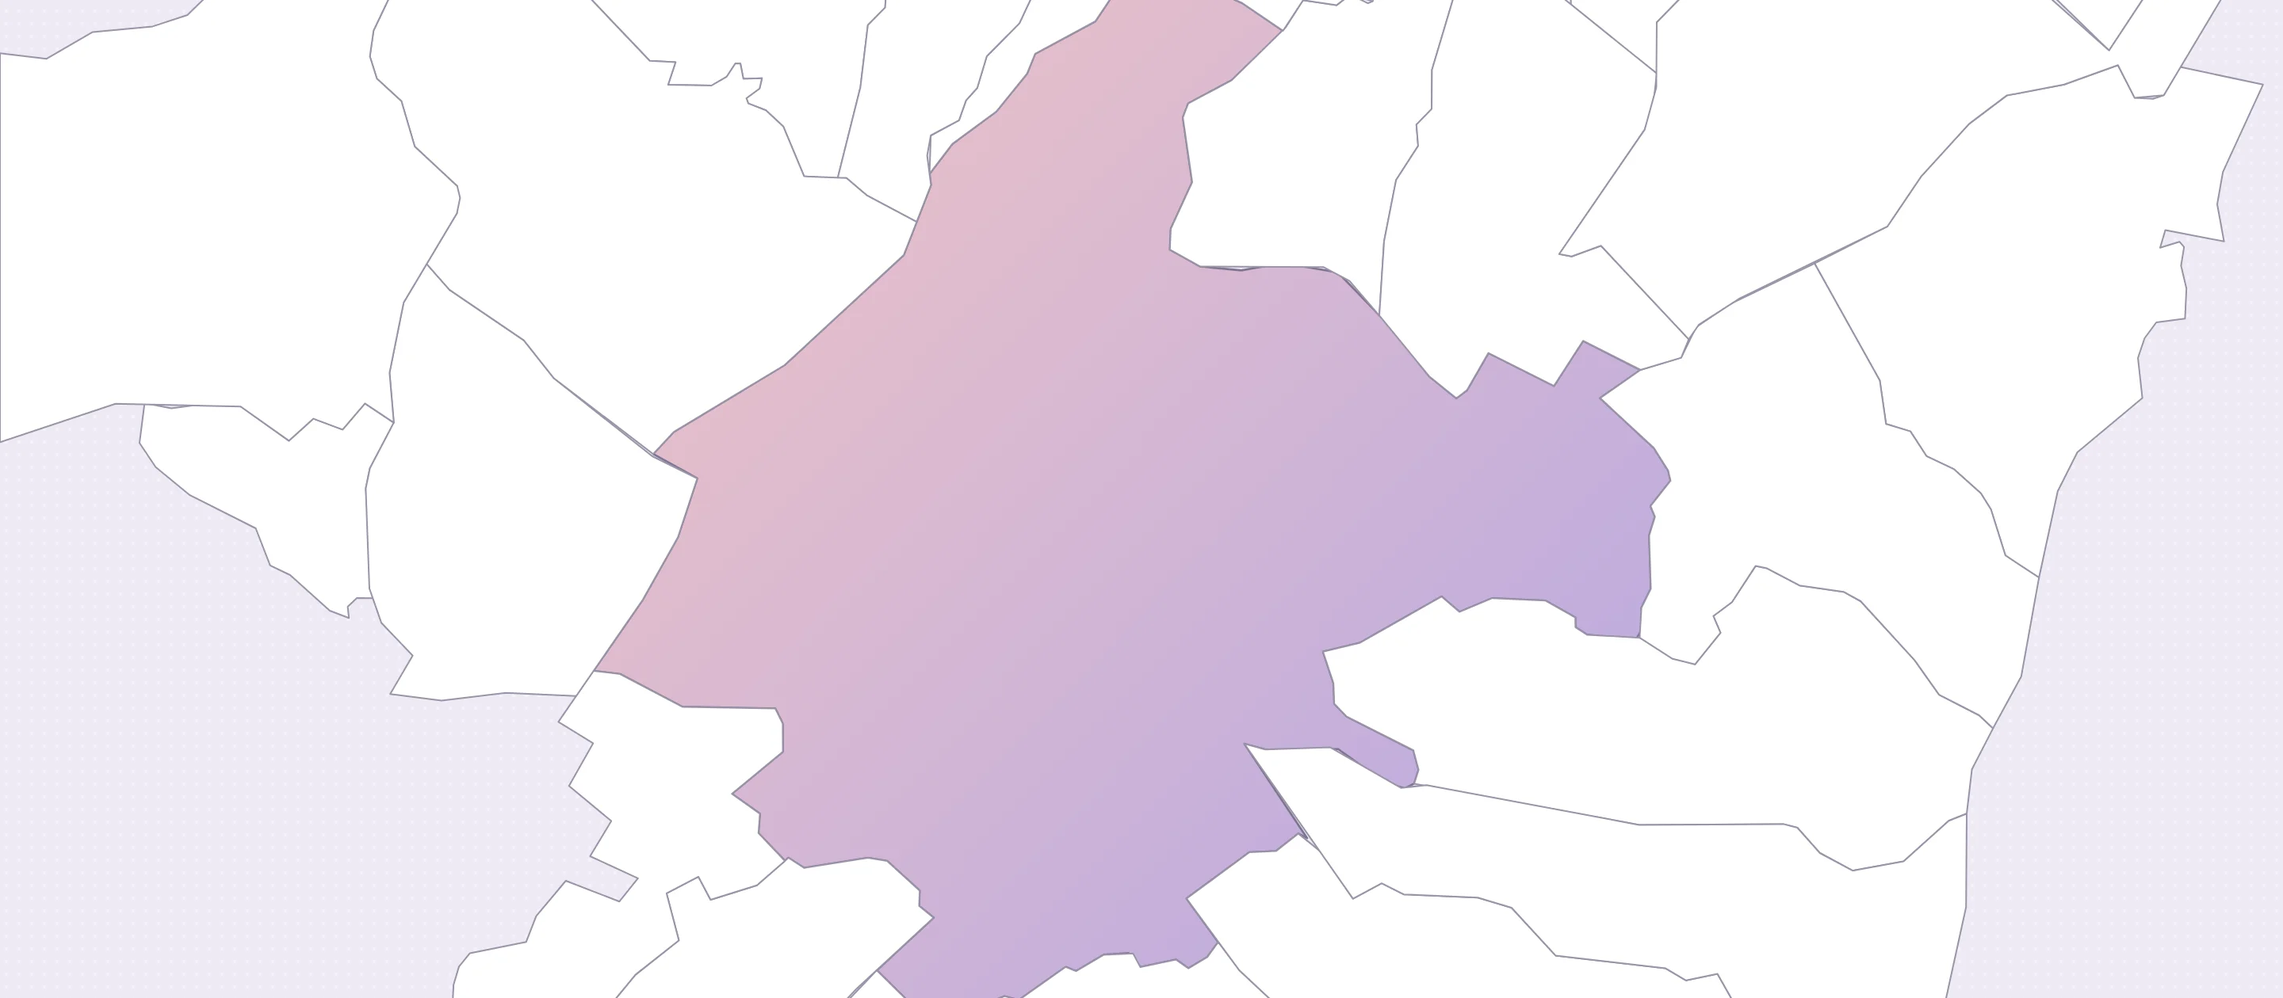
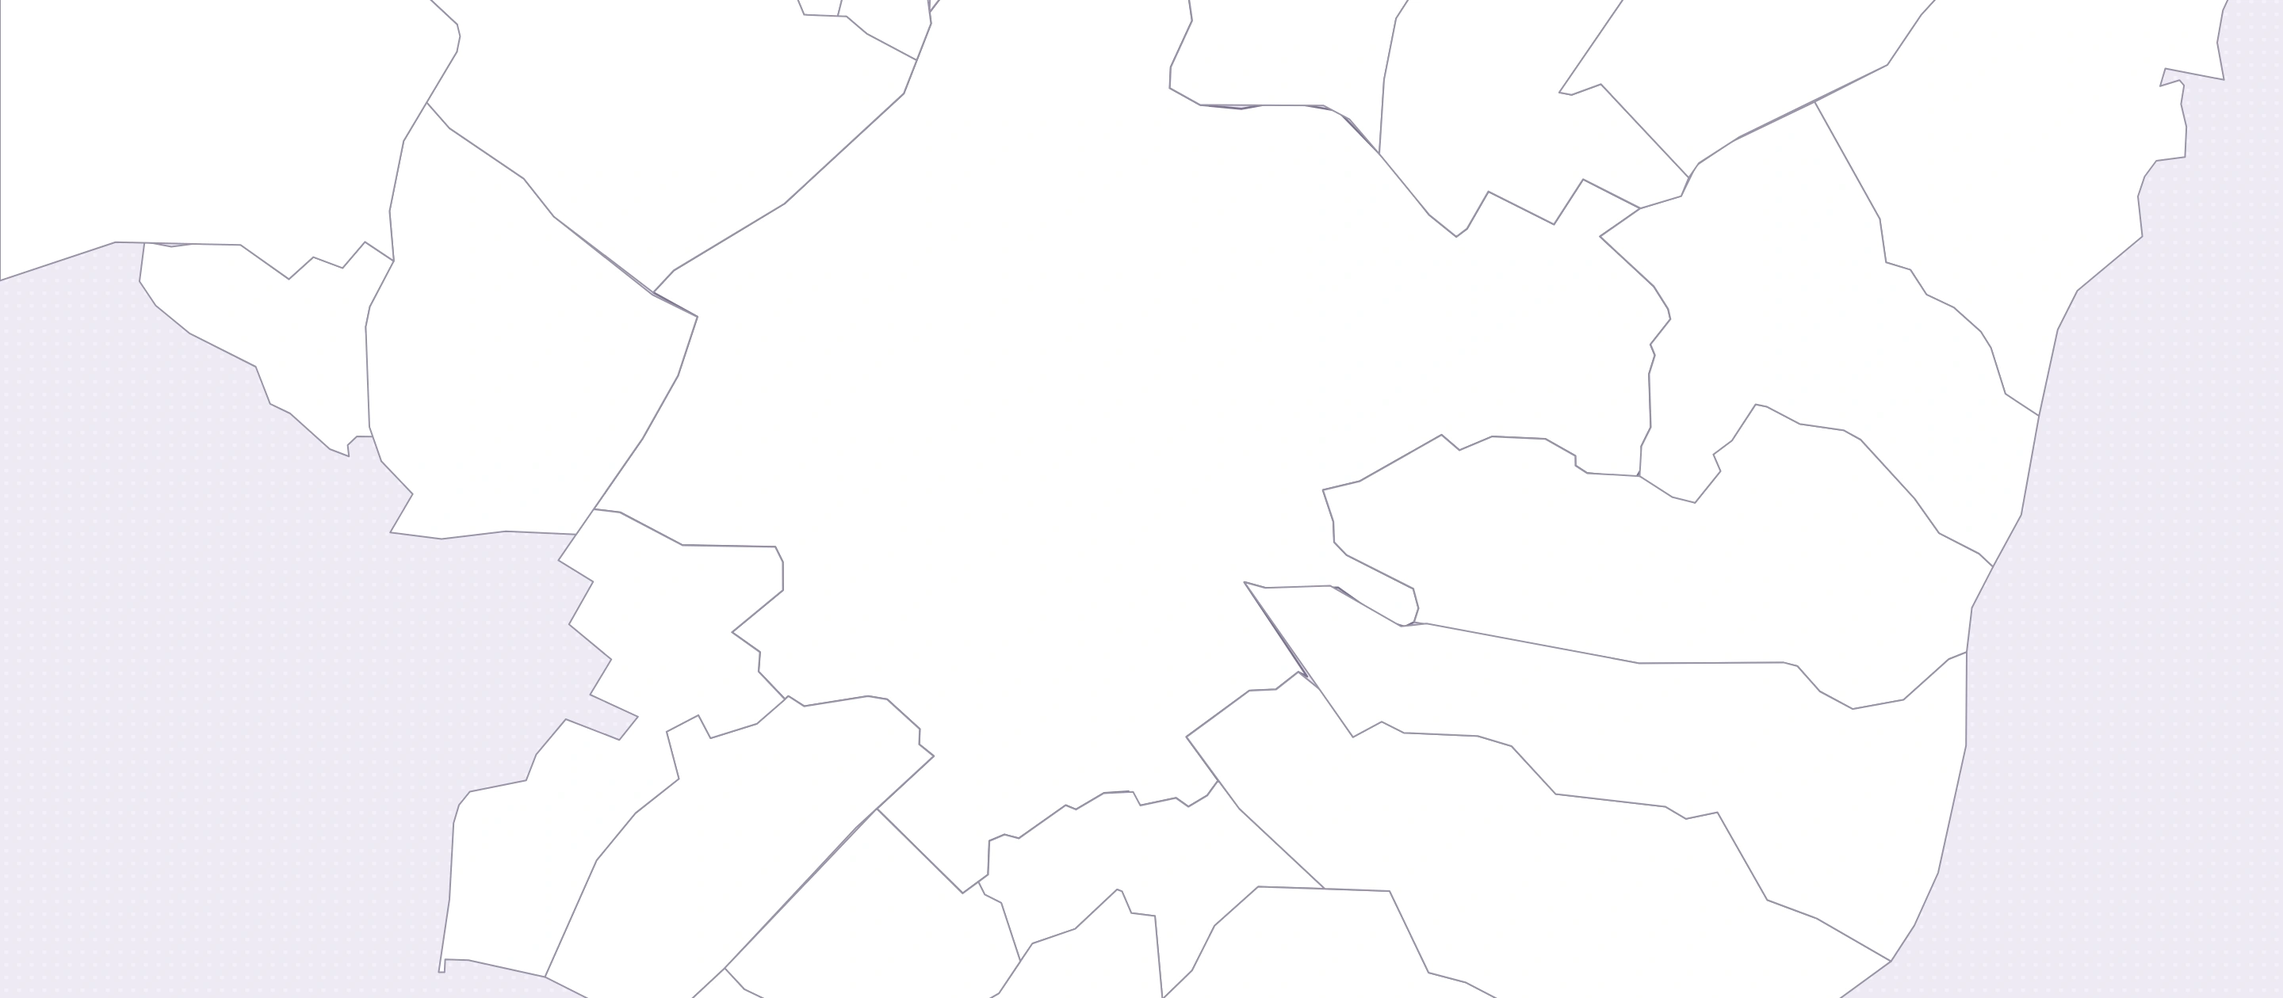
Athens + Colombo maps: Sydney-style labels, pins and project cards, smooth gradients, grey bold border on hover, Kolonaki centred

diff --git a/assets/site.js b/assets/site.js
@@ -2,7 +2,7 @@ const __LS=(()=>{const m={};return{getItem:k=>k in m?m[k]:null,setItem:(k,v)=>{m
 (() => {
 const NS = "http://www.w3.org/2000/svg";
 // "Dawn" palette — sampled from Lia's reference: pink-purple sky gradient (main), lime/teal land and water (accents)
-const GR={sky:["#DAB3B5","#EA9F8B"],lilac2:["#CFC8DC","#9FA1B4"],lime:["#C3BA6E","#A6A724"],fern:["#BEC45A","#93A038"],teal:["#7F988D","#497358"],lake:["#C2B7D3","#9E9FB9"],spectrum:["#E8B4B0","#EF9483","#B9AAE2","#A8A6E0","#C3D04A","#8DB845","#3E9E8E","#9FB0D6"],dawn:["#F6C9B4","#EE9A88","#B9A8E6"],lilac:["#F3C6C4","#B3A6E3"],haze:["#F7D9C4","#C4B8EC"],lagoon:["#9FD0C4","#A9A6E0"],meadow:["#D8E37A","#7DBFA8"],rib:["#EE9988","#C7B8EA"]};
+const GR={sky:["#DAB3B5","#EA9F8B"],lilac2:["#CFC8DC","#9FA1B4"],lime:["#C3BA6E","#A6A724"],fern:["#BEC45A","#93A038"],teal:["#7F988D","#497358"],lake:["#C2B7D3","#9E9FB9"],spectrum:["#E8B4B0","#EF9483","#B9AAE2","#A8A6E0","#C3D04A","#8DB845","#3E9E8E","#9FB0D6"],dawn:["#F6C9B4","#EE9A88","#B9A8E6"],lilac:["#F3C6C4","#B3A6E3"],haze:["#F7D9C4","#C4B8EC"],lagoon:["#9FD0C4","#A9A6E0"],meadow:["#D8E37A","#7DBFA8"],rib:["#EE9988","#C7B8EA"],sun:["#F7D774","#F4B862","#F09A55","#EC8A4C"]};
 const SOLIDS=["#F4C7B5","#EE9988","#E7AFC0","#C7B8EA","#A9A3E3","#9DB1E8","#DCE39A","#7DBFA8"];
 const CYCLE=["g:dawn","g:lilac","g:haze","#C7B8EA","g:lagoon","#EE9988","g:dawn","#F4C7B5","g:lilac","g:meadow"];
 const MOR=["#D7B98E","#A9B59A","#C7A895","#9FBDBF","#D9A8A0","#B5A3B0","#CBB48F","#9DB4A6","#B2C7D3","#AC7F6E"]; // previous Morandi set (for migration)
@@ -187,7 +187,7 @@ function fix46(k,v){if(k!=="p3")return v;const m=v.find(e=>e.id==="p3sydMap");if
   v.filter(e=>e.type==="footer").forEach(ft=>ft.y=PAGES.p3.H-110);return v}
 
 // Oct 2026 · Projects: Athens and Colombo as pictures (same frame as Sydney); order Sydney → Athens → Colombo
-const CMB_PIC={pic:"img/colombo-map.webp",crop:[0, 0, 1440, 630],border:"#D8957E"},ATH_PIC={pic:"img/athens-map.webp",crop:[0, 133, 1440, 630],border:"#B4A3D6"};
+const CMB_PIC={pic:"img/colombo-map.webp",crop:[0, 0, 1440, 630],border:"#D8957E"},ATH_PIC={pic:"img/athens-map.webp",crop:[0, 235, 1440, 630],border:"#B4A3D6"};
 function fix47(k,v){if(k!=="p3")return v;const f=id=>v.find(e=>e.id===id);const sm=f("p3sydMap");if(!sm)return v;
   const bottom=sm.y+(sm.h||525),G=90;let y=bottom;
   [["ath",ATH_PIC],["cmb",CMB_PIC]].forEach(([r,P])=>{const cap=r[0].toUpperCase()+r.slice(1);
@@ -646,7 +646,7 @@ const PROJ_ATH=[{t:"Mapping the City: Kolonaki, Athens",s:"Kolonaki",lga:"Athens
 const proj=(M,lon,lat)=>[(lon-M.lon0)*M.c*M.k,(M.lat1-lat)*M.k];
 const REGIONS={
   syd:{label:"Sydney, NSW",M:MAP,P:PROJECTS,colors:MORANDI,sea:"#A9D2C8",minA:l=>l.a>3,noLabel:["Randwick","Ryde","Hawkesbury"],left:p=>p.ll[0]<151.05&&!["Windsor","Kellyville"].includes(p.s)},
-  cmb:{label:"Colombo, Sri Lanka",M:MAP_CMB,P:PROJ_CMB,colors:{"Slave Island":"g:dawn"},sea:"#E9B7A4",minA:l=>l.big,noLabel:["Slave Island"],left:()=>false},
+  cmb:{label:"Colombo, Sri Lanka",M:MAP_CMB,P:PROJ_CMB,colors:{"Slave Island":"g:sun"},sea:"#E9B7A4",minA:l=>l.big,noLabel:["Slave Island"],left:()=>false},
   ath:{label:"Athens, Greece",M:MAP_ATH,P:PROJ_ATH,colors:{"Athens":"g:lilac"},sea:"#EFEAF5",minA:l=>l.big,noLabel:[],left:()=>false}};
 Object.values(REGIONS).forEach(R=>{R.names=[...new Set(R.P.map(p=>p.lga))];
   R.pins=[...new Map(R.P.map(p=>[p.s,p])).values()].map(p=>({s:p.s,xy:proj(R.M,...p.ll),left:R.left(p)}))});
@@ -855,6 +855,8 @@ function loadPage(k){const v=loadRaw(k);let done=false;try{done=__LS.getItem("li
   if(!c45){fix45(k,v);try{__LS.setItem(PAGES[k].store,JSON.stringify(v));__LS.setItem("lia-chrome45-"+k,"1")}catch(_){}}
   let c46=false;try{c46=__LS.getItem("lia-chrome46-"+k)==="1"}catch(_){}
   if(!c46){fix46(k,v);try{__LS.setItem(PAGES[k].store,JSON.stringify(v));__LS.setItem("lia-chrome46-"+k,"1")}catch(_){}}
+  let c48=false;try{c48=__LS.getItem("lia-chrome48-"+k)==="1"}catch(_){}
+  if(!c48&&k==="p3"){v.forEach(e=>{if(e.id==="p3cmbMap")Object.assign(e,CMB_PIC);if(e.id==="p3athMap")Object.assign(e,ATH_PIC)});try{__LS.setItem(PAGES[k].store,JSON.stringify(v));__LS.setItem("lia-chrome48-"+k,"1")}catch(_){}}
   let c47=false;try{c47=__LS.getItem("lia-chrome47-"+k)==="1"}catch(_){}
   if(!c47){fix47(k,v);try{__LS.setItem(PAGES[k].store,JSON.stringify(v));__LS.setItem("lia-chrome47-"+k,"1")}catch(_){}}
   return v}
@@ -1101,14 +1103,14 @@ function drawRegionPic(e,g,defs){const R=REGIONS[e.region],M=R.M,c=e.crop,k=e.w/
   const body=mk("g",{"clip-path":`url(#${cid})`},g);mk("rect",{x:e.x,y:e.y,width:e.w,height:h,fill:R.sea},body);
   mk("image",{href:e.pic,x:e.x,y:e.y,width:e.w,height:h,preserveAspectRatio:"xMidYMid slice"},body);
   const inner=mk("g",{transform:`translate(${e.x-c[0]*k},${e.y-c[1]*k}) scale(${k})`},body);
-  M.lgas.forEach(l=>{const has=R.names.includes(l.name);mk("path",{d:l.d,class:"lgapic"+(has?" has":""),fill:has?paint(R.colors[l.name]||"#C7B8EA"):"#FFFFFF",stroke:has?"#7D7590":"#9A94A8","stroke-width":1.6/k,"data-lga":l.name},inner)});
-  const fs=v=>v/Math.max(k,1);
-  if(e.allNames)M.lgas.filter(l=>!R.names.includes(l.name)&&R.minA(l)).forEach(l=>{const t=mk("text",{x:l.c[0],y:l.c[1],"text-anchor":"middle","font-family":MONO,"font-size":fs(10.5)*Math.min(k,1.25)/k*1.2,fill:"#9A968A","letter-spacing":"0.04em","pointer-events":"none"},inner);t.textContent=l.name.toUpperCase()});
-  if(e.labels)M.lgas.filter(l=>R.names.includes(l.name)&&!R.noLabel.includes(l.name)).forEach(l=>{const t=mk("text",{x:l.c[0],y:l.c[1],"text-anchor":"middle","font-family":fontOf("display"),"font-size":19/k,fill:INK,"pointer-events":"none"},inner);t.textContent=l.name});
-  if(e.pins)R.pins.forEach(p=>{const [x,y]=p.xy,dir=p.left?-1:1,lx=x+dir*34/k;const pg=mk("g",{"pointer-events":"none"},inner);
-    mk("path",{d:`M${x+dir*8/k},${y} H${lx}`,stroke:INK,"stroke-width":1.2/k},pg);
-    mk("circle",{cx:x,cy:y,r:7/k,fill:"#FFFFFF",stroke:INK,"stroke-width":2/k},pg);mk("circle",{cx:x,cy:y,r:2.6/k,fill:INK},pg);
-    const t=mk("text",{x:lx+dir*6/k,y:y+4/k,"text-anchor":p.left?"end":"start","font-family":MONO,"font-size":12.5/k,fill:INK},pg);t.textContent=p.s});
+  M.lgas.forEach(l=>{const has=R.names.includes(l.name);mk("path",{d:l.d,class:"lgapic"+(has?" has":""),fill:has?paint(R.colors[l.name]||"#C7B8EA"):"#FFFFFF",stroke:has?"#7D7590":"#9A94A8","stroke-width":1.6/k,"data-area":l.name,"data-region":e.region},inner)});
+  // only the project area's name, Sydney style (12px Bodoni, warm grey)
+  M.lgas.filter(l=>R.names.includes(l.name)&&!R.noLabel.includes(l.name)).forEach(l=>{const t=mk("text",{x:l.c[0],y:l.c[1],"text-anchor":"middle","dominant-baseline":"central","font-family":SERIF,"font-size":12/k,fill:"#7A766C","pointer-events":"none"},inner);t.textContent=l.name});
+  // project points: white dot with red ring, label in bold mono, no leader line (same as Sydney)
+  if(e.pins)R.pins.forEach(p=>{const [x,y]=p.xy;const pg=mk("g",{class:"rpin","data-region":e.region,"data-pin":p.s},inner);
+    mk("circle",{cx:x,cy:y,r:16/k,fill:"transparent"},pg);
+    mk("circle",{cx:x,cy:y,r:7/k,fill:"#FFFFFF",stroke:"#E2483D","stroke-width":2.2/k},pg);mk("circle",{cx:x,cy:y,r:2.2/k,fill:"#E2483D"},pg);
+    const t=mk("text",{x:x+12/k,y:y+4/k,"font-family":MONO,"font-weight":700,"font-size":11/k,"letter-spacing":"0.04em",fill:INK,stroke:"#FFFFFF","stroke-width":3/k,"paint-order":"stroke","stroke-linejoin":"round"},pg);t.textContent=p.s});
   mk("rect",{x:e.x+1,y:e.y+1,width:e.w-2,height:h-2,rx:21,fill:"none",stroke:e.border||"#C9C4BA","stroke-width":2,"pointer-events":"none"},g)}
 function drawMap(e,g,defs){if(typeof e.pic==="string")return drawRegionPic(e,g,defs);if(e.pic)return drawMapPic(e,g,defs);
   const R=REGIONS[e.region||"syd"],M=R.M,rx=e.frame===false?0:24;
@@ -1715,6 +1717,29 @@ function siteTick(){
     n.g.replaceWith(g0);__drawEl(e,g0,defs,[]);n.defs=[...defs.children].slice(b0);
     if(darkMode){darkify(g0);n.defs.forEach(d=>darkify(d))}n.g=g0});
 }
+
+/* Athens / Colombo picture maps: project card (same look as the Sydney map) only on the pin, or on Slave Island */
+const REGION_CARDS={
+  ath:{"Kolonaki":[{t:"Mapping the City: Kolonaki, Athens",s:"Kolonaki",tag:"Urban design · 2025",d:"Mapping Kolonaki's public domain: Vasilissis Sofias and Michalakopoulou, a walkable street network and a dense figure-ground.",imgs:["img/athens-streets.jpg","img/athens-buildings.jpg"]}]},
+  cmb:{"Slave Island":[{t:"Cooling Slave Island: Urban Heat and Sustainable Design Strategies for Colombo",s:"Slave Island",tag:"Urban heat · Design · 2026",d:"Cooling a dense, heat-stressed precinct with shade, greening, cool materials and water-sensitive design.",img:"img/colombo-before-after.jpg"},
+    {t:"Urban Heat & Sustainable Design: Slave Island",s:"Slave Island",tag:"Urban heat",d:"How density, hard surfaces and lost tree cover heat Slave Island, and which design moves cool it."}]}};
+function regionCards(){if(document.getElementById("rcard"))return;const card=document.createElement("div");card.id="rcard";card.className="pcard";board.appendChild(card);
+  const esc=t=>String(t).replace(/[&<>"]/g,c=>({"&":"&amp;","<":"&lt;",">":"&gt;",'"':"&quot;"}[c]));let cur=null,ht=null;
+  const place=anchor=>{const b=board.getBoundingClientRect(),r=anchor.getBoundingClientRect(),x=r.left+r.width/2-b.left,y=r.top+r.height/2-b.top,w=card.offsetWidth,h=card.offsetHeight,g=18,pad=10;
+    const fr=anchor.closest("g[data-id]").getBoundingClientRect(),L=fr.left-b.left,T=fr.top-b.top,R_=fr.right-b.left,B=fr.bottom-b.top;
+    const opts=[[x+g,y-h/2],[x-g-w,y-h/2],[x-w/2,y-g-h],[x-w/2,y+g]],fits=([a,c])=>a>=L+pad&&c>=T+pad&&a+w<=R_-pad&&c+h<=B-pad;
+    let [cx,cy]=opts.find(fits)||opts[0];cx=Math.max(L+pad,Math.min(cx,R_-pad-w));cy=Math.max(T+pad,Math.min(cy,B-pad-h));card.style.left=cx+"px";card.style.top=cy+"px"};
+  const show=(region,name,anchor)=>{clearTimeout(ht);const items=(REGION_CARDS[region]||{})[name];if(!items)return;const key=region+name;
+    if(cur!==key){card.innerHTML=items.map(q=>`<div class="card">${q.imgs?`<div class="strip">${q.imgs.map(u=>`<img src="${u}" alt="">`).join("")}</div>`:q.img?`<img src="${q.img}" alt="">`:""}<span class="tag">${esc(q.s)} · ${esc(q.tag)}</span><h3>${esc(q.t)}</h3><p>${esc(q.d)}</p></div>`).join("");card.scrollTop=0;
+      card.querySelectorAll("img").forEach(im=>im.complete||im.addEventListener("load",()=>place(anchor),{once:true}))}
+    cur=key;card.classList.add("on");place(anchor)};
+  const hide=()=>{clearTimeout(ht);ht=setTimeout(()=>{card.classList.remove("on");cur=null},280)};
+  card.addEventListener("pointerenter",()=>clearTimeout(ht));card.addEventListener("pointerleave",hide);
+  card.addEventListener("wheel",e=>{e.preventDefault();e.stopPropagation();card.scrollTop+=e.deltaY},{passive:false});
+  svg.addEventListener("pointerover",e=>{const pin=e.target.closest&&e.target.closest(".rpin");if(pin){show(pin.dataset.region,pin.dataset.pin,pin.querySelector("circle:nth-child(2)")||pin);return}
+    const a=e.target.closest&&e.target.closest(".lgapic.has");if(a&&a.dataset.region==="cmb"){const pn=a.parentNode.querySelector(".rpin");show("cmb",a.dataset.area,pn?pn.querySelector("circle:nth-child(2)"):a)}});
+  svg.addEventListener("pointerout",e=>{const t=e.target.closest&&e.target.closest(".rpin,.lgapic.has");if(t&&!(e.relatedTarget&&card.contains(e.relatedTarget)))hide()});
+  document.getElementById("main").addEventListener("scroll",()=>{if(card.classList.contains("on")){card.classList.remove("on");cur=null}},{passive:true})}
 const ROAD_IMG={"x": 75, "y": 789, "w": 1289, "h": 3573, "src": "img/road-about.webp"};window.ROAD_IMG=ROAD_IMG;
 window.__site={get els(){return els},P,REGIONS,get cur(){return cur},drawMap,mk,svg};
 (function startSite(){
@@ -1729,7 +1754,7 @@ window.__site={get els(){return els},P,REGIONS,get cur(){return cur},drawMap,mk,
     nv.addEventListener("pointerdown",ev=>{const n=ev.target.dataset&&ev.target.dataset.nav;if(!n)return;
       if(n==="Dark"){darkMode=!darkMode;board.classList.toggle("dark",darkMode);saveDark();render();return}
       if(SITE_URL[n]&&NAVPAGE[n]!==cur)location.href=SITE_URL[n]})}
-  if(MOBILE_Q.matches){buildMobile();}else{renderAll();if(!preview)togglePreview();buildOverlays();clipUnderNav();}
+  if(MOBILE_Q.matches){buildMobile();}else{renderAll();if(!preview)togglePreview();buildOverlays();clipUnderNav();regionCards();}
   let wasM=MOBILE_Q.matches;MOBILE_Q.addEventListener("change",q=>{if(q.matches!==wasM)location.reload()});
 })();
 })();

diff --git a/assets/site.css b/assets/site.css
@@ -72,8 +72,10 @@ kbd{font-family:var(--mono);font-size:10.5px;border:1px solid var(--line);border
 .ms p{margin:0 0 4px}
 .app.preview .hov,.app.preview .cw{transition:transform .25s cubic-bezier(.2,.8,.3,1.2);transform-box:fill-box;transform-origin:center;cursor:default}
 .app.preview .hov:hover{transform:scale(1.14)}
+.lgapic.has{fill-opacity:1!important;stroke-opacity:.45}
 .lgapic{fill-opacity:0;stroke-opacity:0;transform-box:fill-box;transform-origin:center;transition:transform .25s cubic-bezier(.2,.8,.3,1.2),fill-opacity .15s,stroke-opacity .15s}
-.app.preview .lgapic{cursor:pointer}.app.preview .lgapic:hover{fill-opacity:1;stroke-opacity:1;stroke:#5E5A66;transform:scale(1.04);filter:drop-shadow(0 6px 10px rgba(29,28,24,.25))}
+.app.preview .lgapic{cursor:default}.app.preview .lgapic.has,.app.preview .rpin{cursor:pointer}
+.rpin{transform-box:fill-box;transform-origin:center}.app.preview .lgapic:hover{fill-opacity:1;stroke-opacity:1;stroke:#87837A;stroke-width:1.9px;vector-effect:non-scaling-stroke;transform:scale(1.04);filter:drop-shadow(0 6px 10px rgba(29,28,24,.22))}
 .app.preview .cw:hover{transform:scale(1.35)}
 .board.dark{background:#17161C}
 .board.dark .ms{color:#BEB8CB}.board.dark .ms .yr,.board.dark .ms .tt{color:#EEEAF4}.board.dark .ms .when{color:#A39DB0}
@@ -117,6 +119,16 @@ main{display:block!important;height:100vh;overflow:auto;padding:0!important}
 #navbar{position:sticky;top:0;display:block;width:100%;height:auto;aspect-ratio:1440/96;margin-bottom:-6.6667%;z-index:30;touch-action:auto;user-select:none}
 #navbar [data-nav]{cursor:pointer}
 #ov{position:absolute;inset:0;pointer-events:none;container-type:inline-size}
+#rcard{position:absolute;z-index:40;width:320px;max-height:505px;overflow:auto;overscroll-behavior:contain;overflow-anchor:none;background:#fff;border-radius:18px;box-shadow:0 14px 34px rgba(42,35,64,.16);padding:18px 20px;box-sizing:border-box;display:none;font-family:"IBM Plex Sans",system-ui,sans-serif;color:#1D1C18}
+#rcard.on{display:block}
+#rcard .card+.card{border-top:1px solid #D9D6CE;margin-top:14px;padding-top:14px}
+#rcard .strip{display:flex;gap:8px;overflow-x:auto;scroll-snap-type:x mandatory;margin-bottom:12px}
+#rcard .strip img{flex:0 0 86%;height:170px;object-fit:contain;scroll-snap-align:start;margin-bottom:0!important;display:block;border-radius:10px;background:#fff}
+#rcard .card>img{display:block;width:100%;border-radius:10px;margin-bottom:12px;background:#fff}
+#rcard .tag{font:500 11px "IBM Plex Mono",ui-monospace,monospace;letter-spacing:.08em;text-transform:uppercase;color:#8C8B83}
+#rcard h3{font-family:"Bodoni Moda",Didot,"Times New Roman",serif;font-weight:500;font-size:19px;line-height:1.2;margin:6px 0 6px;text-wrap:balance}
+#rcard p{margin:0;font-size:14px;line-height:1.5;color:#8C8B83}
+.board.dark #rcard{background:#211F27;color:#EEEAF4}
 #ov a,#ov iframe,#ov form{position:absolute;pointer-events:auto;display:block}
 #ov a{border-radius:10px}
 #ov a:focus-visible{outline:2px solid #EE9988;outline-offset:3px}

diff --git a/about.html b/about.html
@@ -8,7 +8,7 @@
 <link rel="preconnect" href="https://fonts.googleapis.com">
 <link rel="preconnect" href="https://fonts.gstatic.com" crossorigin>
 <link rel="stylesheet" href="https://fonts.googleapis.com/css2?family=Bodoni+Moda:opsz,wght@6..96,400;6..96,500;6..96,700&family=IBM+Plex+Sans:wght@400;500;600&family=IBM+Plex+Mono:wght@400;500&display=swap">
-<link rel="stylesheet" href="assets/site.css?v=202610111902">
+<link rel="stylesheet" href="assets/site.css?v=202610111933">
 </head>
 <body>
 <div class="app" id="app">
@@ -50,7 +50,7 @@
   <aside class="right" id="inspector"></aside>
 </div>
 
-<script>window.SITE_PAGE="p2";window.SITE_V="202610111902";</script>
-<script src="assets/site.js?v=202610111902"></script>
+<script>window.SITE_PAGE="p2";window.SITE_V="202610111933";</script>
+<script src="assets/site.js?v=202610111933"></script>
 </body>
 </html>

diff --git a/blog.html b/blog.html
@@ -8,7 +8,7 @@
 <link rel="preconnect" href="https://fonts.googleapis.com">
 <link rel="preconnect" href="https://fonts.gstatic.com" crossorigin>
 <link rel="stylesheet" href="https://fonts.googleapis.com/css2?family=Bodoni+Moda:opsz,wght@6..96,400;6..96,500;6..96,700&family=IBM+Plex+Sans:wght@400;500;600&family=IBM+Plex+Mono:wght@400;500&display=swap">
-<link rel="stylesheet" href="assets/site.css?v=202610111902">
+<link rel="stylesheet" href="assets/site.css?v=202610111933">
 </head>
 <body>
 <div class="app" id="app">
@@ -50,7 +50,7 @@
   <aside class="right" id="inspector"></aside>
 </div>
 
-<script>window.SITE_PAGE="pb";window.SITE_V="202610111902";</script>
-<script src="assets/site.js?v=202610111902"></script>
+<script>window.SITE_PAGE="pb";window.SITE_V="202610111933";</script>
+<script src="assets/site.js?v=202610111933"></script>
 </body>
 </html>

diff --git a/contact.html b/contact.html
@@ -8,7 +8,7 @@
 <link rel="preconnect" href="https://fonts.googleapis.com">
 <link rel="preconnect" href="https://fonts.gstatic.com" crossorigin>
 <link rel="stylesheet" href="https://fonts.googleapis.com/css2?family=Bodoni+Moda:opsz,wght@6..96,400;6..96,500;6..96,700&family=IBM+Plex+Sans:wght@400;500;600&family=IBM+Plex+Mono:wght@400;500&display=swap">
-<link rel="stylesheet" href="assets/site.css?v=202610111902">
+<link rel="stylesheet" href="assets/site.css?v=202610111933">
 </head>
 <body>
 <div class="app" id="app">
@@ -50,7 +50,7 @@
   <aside class="right" id="inspector"></aside>
 </div>
 
-<script>window.SITE_PAGE="p4";window.SITE_V="202610111902";</script>
-<script src="assets/site.js?v=202610111902"></script>
+<script>window.SITE_PAGE="p4";window.SITE_V="202610111933";</script>
+<script src="assets/site.js?v=202610111933"></script>
 </body>
 </html>

diff --git a/index.html b/index.html
@@ -8,7 +8,7 @@
 <link rel="preconnect" href="https://fonts.googleapis.com">
 <link rel="preconnect" href="https://fonts.gstatic.com" crossorigin>
 <link rel="stylesheet" href="https://fonts.googleapis.com/css2?family=Bodoni+Moda:opsz,wght@6..96,400;6..96,500;6..96,700&family=IBM+Plex+Sans:wght@400;500;600&family=IBM+Plex+Mono:wght@400;500&display=swap">
-<link rel="stylesheet" href="assets/site.css?v=202610111902">
+<link rel="stylesheet" href="assets/site.css?v=202610111933">
 </head>
 <body>
 <div class="app" id="app">
@@ -50,7 +50,7 @@
   <aside class="right" id="inspector"></aside>
 </div>
 
-<script>window.SITE_PAGE="p1";window.SITE_V="202610111902";</script>
-<script src="assets/site.js?v=202610111902"></script>
+<script>window.SITE_PAGE="p1";window.SITE_V="202610111933";</script>
+<script src="assets/site.js?v=202610111933"></script>
 </body>
 </html>

diff --git a/projects.html b/projects.html
@@ -8,7 +8,7 @@
 <link rel="preconnect" href="https://fonts.googleapis.com">
 <link rel="preconnect" href="https://fonts.gstatic.com" crossorigin>
 <link rel="stylesheet" href="https://fonts.googleapis.com/css2?family=Bodoni+Moda:opsz,wght@6..96,400;6..96,500;6..96,700&family=IBM+Plex+Sans:wght@400;500;600&family=IBM+Plex+Mono:wght@400;500&display=swap">
-<link rel="stylesheet" href="assets/site.css?v=202610111902">
+<link rel="stylesheet" href="assets/site.css?v=202610111933">
 </head>
 <body>
 <div class="app" id="app">
@@ -50,7 +50,7 @@
   <aside class="right" id="inspector"></aside>
 </div>
 
-<script>window.SITE_PAGE="p3";window.SITE_V="202610111902";</script>
-<script src="assets/site.js?v=202610111902"></script>
+<script>window.SITE_PAGE="p3";window.SITE_V="202610111933";</script>
+<script src="assets/site.js?v=202610111933"></script>
 </body>
 </html>
